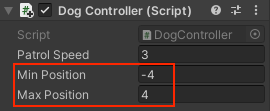
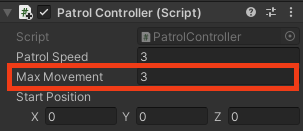
Final updates from review

diff --git a/en/step_4.md b/en/step_4.md
@@ -13,7 +13,7 @@ Patrolling NPCs can be used to slow players down. Changing their path, size, pos
 
 Open the **Models** folder in the Project window and add a **Dog** to your scene. 
 
-Use the Transform and Rotation tools or the Transform component to position the dog in a good position for patrolling — and to obstruct the Player reaching a star! 
+Use the Transform and Rotation tools or the Transform component to position the dog in a good position for patrolling — and to obstruct the Player reaching a star! Place the Dog at the **start** of its patrol.
 
 **Tip:** To see your map in a top-down view, right-click where it says **Persp** in the top right of the Scene view and choose **Top**. To return to the normal view, right-click on **Top** and choose **Free**.
 
@@ -61,7 +61,7 @@ With the Dog GameObject selected, add a new Script component and name it `Patrol
 
 --- task ---
 
-Open the **PatrolController** script and create a `patrolSpeed` variable. Create another two public variables for the `minPosition` and `maxPosition` of the patrol space.
+Open the **PatrolController** script and create a `patrolSpeed` variable. Create another public variable for the maximum distance you want the Dog to move - call it `maxMovement`. You also need a final variable to store the start position, this will be a `Vector3` called `startPosition`.
 
 --- code ---
 ---
@@ -74,44 +74,51 @@ line_highlights: 7-9
 public class PatrolController : MonoBehaviour
 {
     public float patrolSpeed = 3.0f;
-    public float minPosition = -4.0f;
-    public float maxPosition = 4.0f;
+    public float maxMovement = 4.0f;
+    public Vector3 startPosition;
 --- /code ---
 
 --- /task ---
 
 --- task ---
 
-Add code to the `Update` method so the Dog moves foward until the `maxPosition` is reached, then turns `180` degrees and moves forward again until the minimum positon is reached. 
+Add code to the `Start()` and `Update` methods so the Dog moves forward until the distance from it's start position is **greater than** `maxMovement`.
+
+First the `Start()` method is used to set the `startPosition` when the game starts.
+
+Subtracting the current position vector from the position where the Dog starts `transform.position - startPosition` gives the distance the Dog has travelled.
+
+When the max movement is reached the Dog turns `180` degrees and the `startPosition` variable is updated to the current position. The Dog then moves forward again until the maximum has been reached, this process repeats to create the patrol behaviour.
 
 --- code ---
 ---
 language: cs
-filename: DogController.cs - Update()
+filename: DogController.cs
 line_numbers: true
-line_number_start: 17
-line_highlights: 19-31
+line_number_start: 12
+line_highlights: 18, 24, 25, 26, 28, 30, 31, 32, 33, 34
 ---
-void Update()
+    void Start()
+    {
+        startPosition = transform.position;
+    }
+
+    // Update is called once per frame
+    void Update()
     {
         CharacterController controller = GetComponent<CharacterController>();
         Vector3 forward = transform.TransformDirection(Vector3.forward);
         controller.SimpleMove(forward * patrolSpeed);
+        
+        float distance = Vector3.Distance(transform.position, startPosition);
 
-        if (transform.position.x > maxPosition)
+        if (distance > maxMovement)
         {
             transform.Rotate(0, 180, 0);
-            transform.position = new Vector3(maxPosition, transform.position.y, transform.position.z);
-        }
-        else if (transform.position.x < minPosition)
-        {
-            transform.Rotate(0, 180, 0);
-            transform.position = new Vector3(minPosition, transform.position.y, transform.position.z);
+            startPosition = transform.position;
         }
     }
 --- /code ---
-
-Setting the `transform.position` makes sure the Dog isn't past the limit when they turn around. If you don't do this, you might find that the Dog 'glitches' back and forward. 
 
 Save your script and return to the Unity Editor.
 
@@ -121,11 +128,11 @@ Save your script and return to the Unity Editor.
 
 **Test:** Play your game and check that the Dog makes it harder to reach a star quickly. 
 
-Track the movement of the Dog. If the patrol length is not right for your scene, you can adjust the Min Position and Max Position in the Inspector whilst the game is playing. 
+Track the movement of the Dog. If the patrol length is not right for your scene, you can adjust the Max Movement in the Inspector whilst the game is playing. 
 
-![The Min Position and Max Position public variables in the Inspector.](images/position-variables.png)
+![The Max Movement public variable in the Inspector.](images/position-variables.png)
 
-**Tip:** Remember that variables edited in Play mode are not saved after exiting Play mode so make a note of the positions you like best then exit Play mode and set the variables in the Inspector.
+**Tip:** Remember that variables edited in Play mode are not saved after exiting Play mode so make a note of the movement length you like best then exit Play mode and set the variable in the Inspector.
 
 ![Game view showing the Player waiting for the dog to pass before collecting the star then waiting for the dog to pass before exiting the enclosed star hiding place.](images/dog-patrol-game.gif)
 

diff --git a/en/step_6.md b/en/step_6.md
@@ -49,8 +49,7 @@ From the Animation folder in the Project window, drag the **Cat_IdleHappy** anim
 
 ![The Animator window with Base Layer open and a black grid showing 'Entry' in green linked by a transition arrow to 'Cat_IdleHappy' in orange.](images/rat-idle-animator.png)
 
-
-**Tip:** You can use the Cat animations on the Rat and Raccoon because they are designed as humanoids.  
+**Tip:** You can use the Cat animations on the Rat and Raccoon because they are designed as humanoids (standing upright, two arms and two legs).  
 
 --- /task ---
 
@@ -61,6 +60,14 @@ From the Hierarchy window, select the **Rat** then go to the Inspector window **
 ![The Animator component with the circle for top 'Controller' property highlighted. AllyIdle is shown in the field.](images/controller-idle.png)
 
 **Tip:** You can also drag the Animation Controller from the Projects window to the Controller property of the Animator in the Inspector. 
+
+--- /task ---
+
+--- task ---
+
+You can use this same Animator Controller for the Gamemaster to bring them to life!
+
+From the Hierarchy window, select your Gamemaster and drag the **AllyIdle** controller into the Controller field. 
 
 --- /task ---
 

diff --git a/en/step_3.md b/en/step_3.md
@@ -353,7 +353,7 @@ public class GamemasterController : MonoBehaviour
 
 --- /task ---
 
-You can use a `for` loop to perform the same action on each item in an array. 
+You can use a `foreach` loop to perform the same action on each item in an array. 
 
 --- task ---
 
